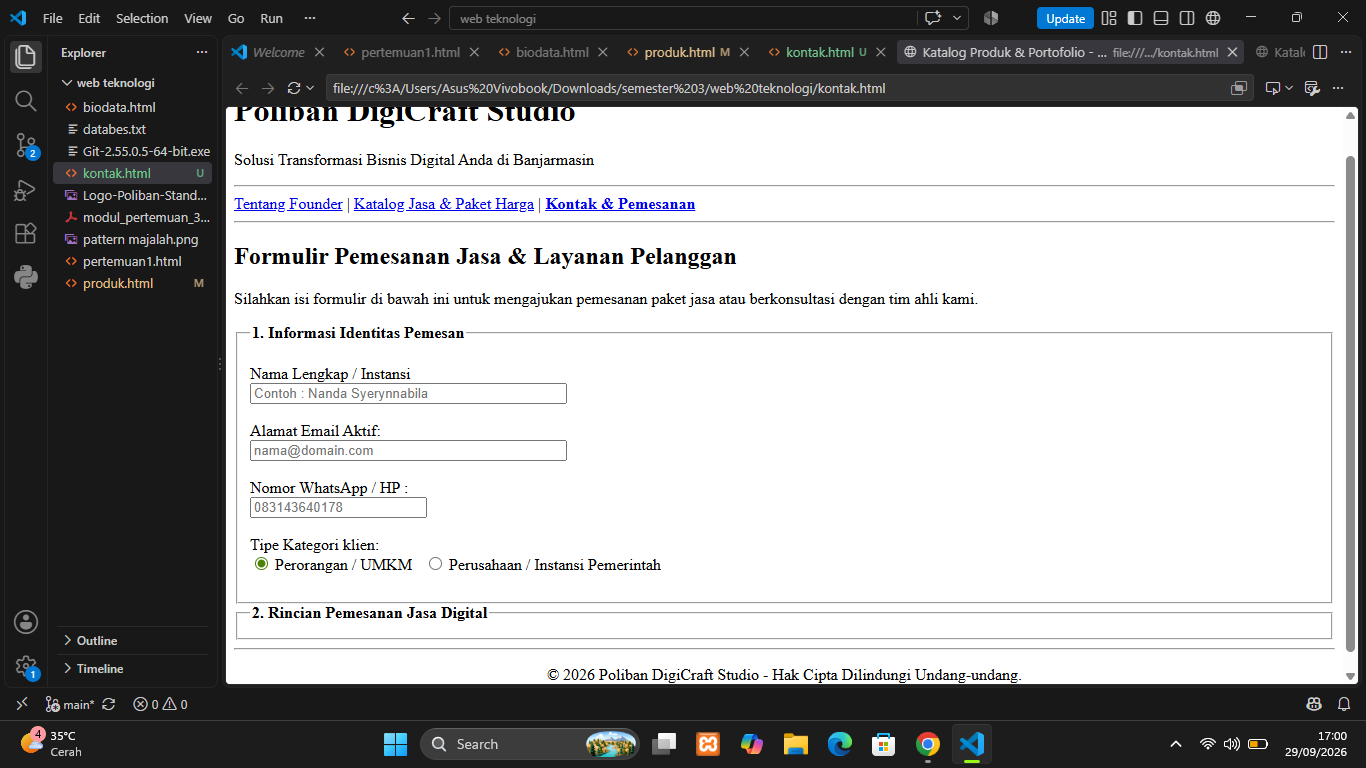
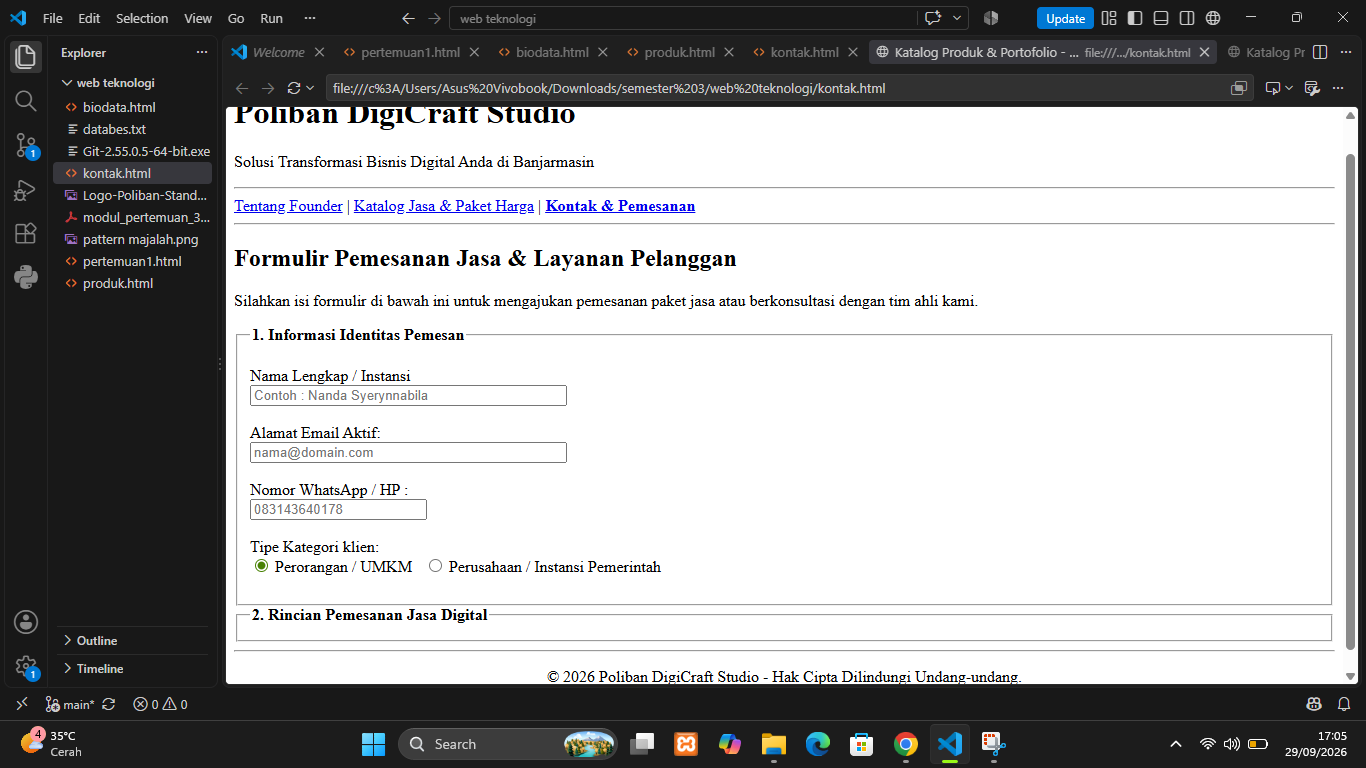
kontak.html

diff --git a/kontak.html b/kontak.html
@@ -1,9 +1,11 @@
 <!DOCTYPE html>
 <html lang="id">
+
 <head>
     <meta charset="UTF-8">
     <title>Katalog Produk & Portofolio - Poliban DigiCraft Studio</title>
-</head>  
+</head>
+
 <body>
     <!-- Bagian Kepala Halaman (Header & Navigasi) -->
     <header>
@@ -11,50 +13,102 @@
         <p>Solusi Transformasi Bisnis Digital Anda di Banjarmasin</p>
         <hr>
     </header>
-<nav>
-    <a href="biodata.html">Tentang Founder</a> |
-    <a href="produk.html">Katalog Jasa & Paket Harga</a> |
-    <a href="kontak.html"><b>Kontak & Pemesanan</b></a>
-</nav>
-<hr>
-
-<main>
-    <h2>Formulir Pemesanan Jasa & Layanan Pelanggan</h2>
-    <P>Silahkan isi formulir di bawah ini untuk mengajukan pemesanan paket jasa atau berkonsultasi dengan tim ahli kami.</P>
-
-    <form action="#" method="POST">
-        <!-- Grup 1: Data Diri Pelanggan-->
-         <fieldset>
-            <legend><b>1. Informasi Identitas Pemesan</b></legend>
-            <br>
-            <label for="nama_lengkap">Nama Lengkap / Instansi</label><br>
-            <input type="text" id="nama_lengkap" name="nama_lengkap" placeholder="Contoh : Nanda Syerynnabila" size="40" required><br><br>
-
-            <label for="email_pemesan">Alamat Email Aktif:</label><br>
-            <input type="email" id="email_pemesan" name="email_pemesan" placeholder="nama@domain.com" size="40" required>
-            <br><br>
-
-            <label for="no_whatsapp">Nomor WhatsApp / HP :</label><br>
-            <input type="tel" id="no_whatsapp" name="no_whatsapp" placeholder="083143640178" required>
-            <br><br>
-
-            <label>Tipe Kategori klien:</label><br>
-            <input type="radio" id="kategori_personal" name="tipe_klien" value="Personal" checked>
-            <label for="kategori_personal">Perorangan / UMKM</label>&nbsp;&nbsp;
-            <input type="radio" id="kategori_korporat" name="tipe_klien" value="Korporat">
-            <label for="kategori_korporat">Perusahaan / Instansi Pemerintah</label>
-            <br><br>
-         </fieldset>
-         <!-- Grub 2: Detail Pesanan Layanan -->
-          <fieldset>
-            <legend><b>2. Rincian Pemesanan Jasa Digital</b></legend>
-          </fieldset>
-
-    </form>
-</main>
-<footer>
+    <nav>
+        <a href="biodata.html">Tentang Founder</a> |
+        <a href="produk.html">Katalog Jasa & Paket Harga</a> |
+        <a href="kontak.html"><b>Kontak & Pemesanan</b></a>
+    </nav>
     <hr>
-    <p align="center">&copy; 2026 Poliban DigiCraft Studio - Hak Cipta Dilindungi Undang-undang.</p>
-</footer>
-</body>  
+
+    <main>
+        <h2>Formulir Pemesanan Jasa & Layanan Pelanggan</h2>
+        <P>Silahkan isi formulir di bawah ini untuk mengajukan pemesanan paket jasa atau berkonsultasi dengan tim ahli
+            kami.</P>
+
+        <form action="#" method="POST">
+            <!-- Grup 1: Data Diri Pelanggan-->
+            <fieldset>
+                <legend><b>1. Informasi Identitas Pemesan</b></legend>
+                <br>
+                <label for="nama_lengkap">Nama Lengkap / Instansi</label><br>
+                <input type="text" id="nama_lengkap" name="nama_lengkap" placeholder="Contoh : Nanda Syerynnabila"
+                    size="40" required><br><br>
+
+                <label for="email_pemesan">Alamat Email Aktif:</label><br>
+                <input type="email" id="email_pemesan" name="email_pemesan" placeholder="nama@domain.com" size="40"
+                    required>
+                <br><br>
+
+                <label for="no_whatsapp">Nomor WhatsApp / HP :</label><br>
+                <input type="tel" id="no_whatsapp" name="no_whatsapp" placeholder="083143640178" required>
+                <br><br>
+
+                <label>Tipe Kategori klien:</label><br>
+                <input type="radio" id="kategori_personal" name="tipe_klien" value="Personal" checked>
+                <label for="kategori_personal">Perorangan / UMKM</label>&nbsp;&nbsp;
+                <input type="radio" id="kategori_korporat" name="tipe_klien" value="Korporat">
+                <label for="kategori_korporat">Perusahaan / Instansi Pemerintah</label>
+                <br><br>
+            </fieldset>
+            <!-- Grub 2: Detail Pesanan Layanan -->
+            <fieldset>
+                <legend><b>2. Rincian Pemesanan Jasa Digital</b></legend>
+                <br>
+                <label for="pilih_paket">Pilih Paket Layanan (Lihat katalog di halaman Produk):</label><br>
+                <select id="pilih_paket" name="pilih_paket" required>
+                    <option value="">-- Pilih Paket Jasa --</option>
+                    <option value="Silver">Paket Silver Branding (Rp 1.500.000)</option>
+                    <option value="Gold">Paket Gold Web Development (Rp 3.000.000)</option>
+                    <option value="Platinum">Paket Platinum Full Digital Transformation (Rp 5.000.000)</option>
+                    <option value="Custom">Konsultasi Custom Project</option>
+                </select>
+                <br><br>
+
+                <label>Layanan Tambahan (Add-Ons):</label><br>
+                <input type="checkbox" id="addon_seo" name="addons[]" value="SEO Optimization">
+                <label for="addon_seo">Optimasi SEO On-Page (+ Rp 500.000)</label><br>
+                <input type="checkbox" id="addon_express" name="addons[]" value="Express Delivery">
+                <label for="addon_express">Pengerjaan Kilat 3 Hari (+ Rp 750.000)</label><br>
+                <input type="checkbox" id="addon_content" name="addons[]" value="Content Writing">
+                <label for="addon_content">Penulisan Konten Artikel & Copywriting (+ Rp 400.000)</label>
+                <br><br>
+
+                <label for="target_selesai">Estimasi Target Selesai:</label><br>
+                <input type="date" id="target_selesai" name="target_selesai">
+                <br><br>
+
+                <label for="detail_pesan">Deskripsi / Catatan Khusus Proyek:</label><br>
+                <textarea id="detail_pesan" name="detail_pesan" rows="6" cols="50"
+                    placeholder="Tuliskan gambaran singkat mengenai proyek yang Anda inginkan..."></textarea>
+                <br><br>
+            </fieldset>
+            <br>
+
+            <!-- Tombol Aksi-->
+            <button type="submit"><b>Kirim Pemesanan Sekarang</b></button>
+            &nbsp;
+            <button type="reset">Bersihkan Formulir</button>
+        </form>
+        <!-- Bagian Informasai Alamat & Peta Studio -->
+        <section>
+            <hr>
+            <h3>Kantor & Studio Operasional</h3>
+            <p><b>Poliban DigiCraft Studio Banjarmasin</b><br>
+                Gedung Laboratorium Bisnis Digital, Kampus Politeknik Negeri Banjarmasin<br>
+                Jl. Brigjen H. Hasan Basry, Kayu Tangi, Banjarmasin, Kalimantan Selatan<br>
+                Email: <i>info@digicraftstudio.ac.id</i> | WhatsApp: <i>0812-5555-8888</i></p>
+
+            <h4>Lokasi Studio di Google Maps:</h4>
+            <iframe
+                src="https://www.google.com/maps/embed?pb=!1m18!1m12!1m3!1d3983.2197196346174!2d114.58193030000004!3d-3.2956938999999967!2m3!1f0!2f0!3f0!3m2!1i1024!2i768!4f13.1!3m3!1m2!1s0x2de423a80d47ba6b%3A0x8f5abfaddfe5a2d7!2sPoliteknik%20Negeri%20Banjarmasin!5e0!3m2!1sid!2sid!4v1791270699834!5m2!1sid!2sid"
+                width="600" height="450" style="border:0;" allowfullscreen="" loading="lazy"
+                referrerpolicy="strict-origin-when-cross-origin"></iframe>
+        </section>
+    </main>
+    <footer>
+        <hr>
+        <p align="center">&copy; 2026 Poliban DigiCraft Studio - Hak Cipta Dilindungi Undang-undang.</p>
+    </footer>
+</body>
+
 </html>
